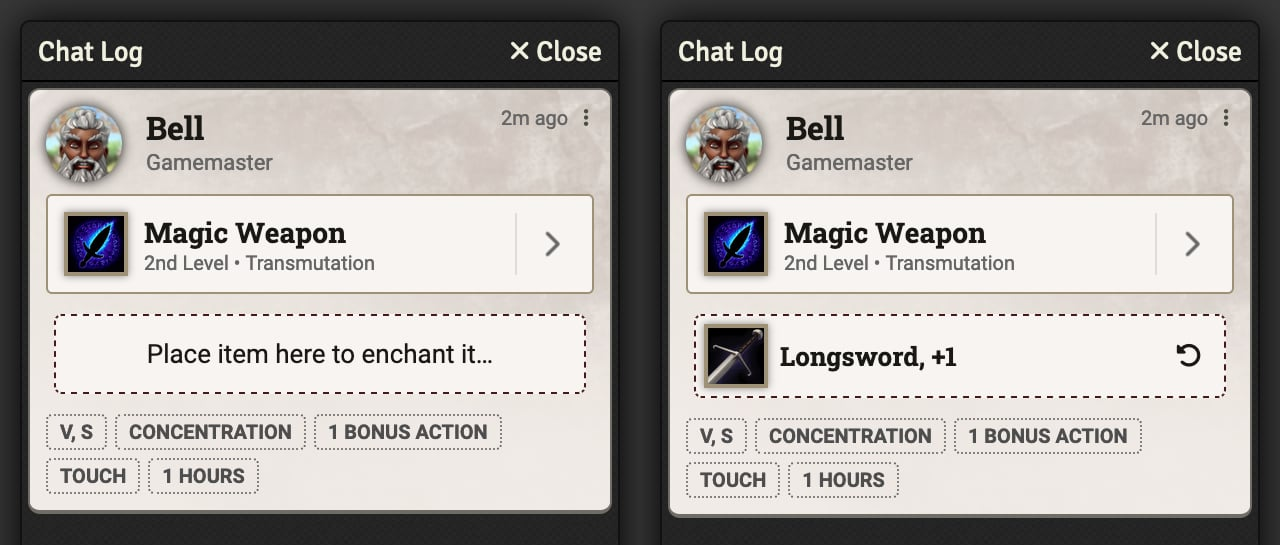
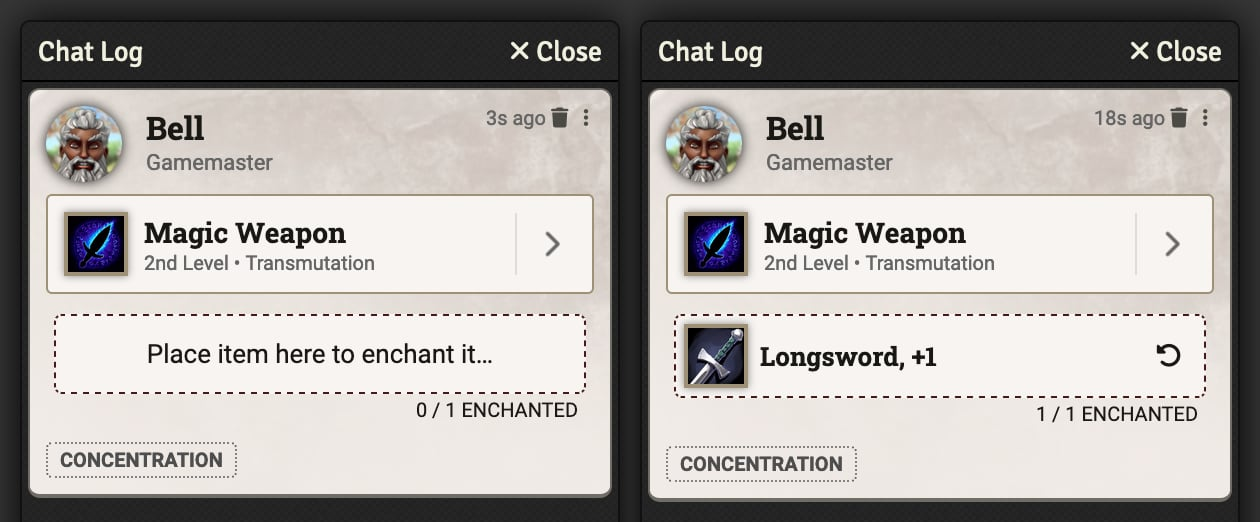
Document Enchant Activity for wiki

Changed region(s): [[0.0, 0.0613, 0.9905, 0.9808], [0.8976, 0.0613, 0.9905, 0.1226], [0.4024, 0.0613, 0.4952, 0.1226]]

diff --git a/wiki/Activity-Type-Summon.md b/wiki/Activity-Type-Summon.md
@@ -18,17 +18,34 @@ Then a few core Foundry permissions may need to be changed depending on how user
 - *Use File Browser*: If the token being summoned uses wildcard artwork, then players must have access to the file browser so the system can correctly set the artwork.
 
 
+## Performing Summoning
+
+To perform summoning, simply use the feature or spell as you would normally and the summoning options will appear in the usage prompt if available.
+
+![Summon Prompt](https://raw.githubusercontent.com/foundryvtt/dnd5e/publish-wiki/wiki/images/summoning/summoning-prompt.jpg)
+
+The *Place Summons* checkbox controls whether a summoned creature will be placed automatically and if there is more than one summoning profile the *Summons Profile* dropdown will allow player to select what type to summon. After this screen the character sheet will be minimized and they will be able to place the summon in the current scene.
+
+![Summon Prompt - Compendium Browser](https://raw.githubusercontent.com/foundryvtt/dnd5e/publish-wiki/wiki/images/summoning/summoning-cr-prompt.jpg)
+
+When summoning in *Challenge Rating & Type* mode, the compendium browser will be brought up after the profile is selected allowing the player to choose which specific creature they wish to summon.
+
+![Summon Chat Message](https://raw.githubusercontent.com/foundryvtt/dnd5e/publish-wiki/wiki/images/summoning/summoning-chat-message.jpg)
+
+If the summoned creature needs to be placed again, or the initial prompt was skipped, a "Summon" button will appear in the chat card.
+
+
 ## Configuring Summoning
 
 After creating the Summon activity on an item the sheet will open on the Identity tab. In addition to the standard activity identity options (see the [Activities Overview](Activities.md) for more details), Summon also includes a *Summon Prompt* option. If this is unchecked, then the usage dialog will not attempt to summon by default, but summoning can always be performed from the chat card after the initial usage.
 
-![Summoning Sheet - Identity Tab](https://raw.githubusercontent.com/foundryvtt/dnd5e/publish-wiki/wiki/images/summoning/summoning-identity.jpg)
+![Summon Sheet - Identity Tab](https://raw.githubusercontent.com/foundryvtt/dnd5e/publish-wiki/wiki/images/summoning/summoning-identity.jpg)
 
 ### Summoning Profiles
 
 Moving over to the Summoning tab reveals the core details of the Summon activity. The Profiles sub-tab contains the configuration for the creatures that will be summoned. It begins with "Mode", which determines whether a specific set of creatures can be summoned using the **"By Direct Link"** option, or whether the player can choose the creatures using the **"By Challenge Rating and Type"** option.
 
-![Summoning Sheet - Profiles Tab, Empty](https://raw.githubusercontent.com/foundryvtt/dnd5e/publish-wiki/wiki/images/summoning/summoning-profiles-empty.jpg)
+![Summon Sheet - Profiles Tab, Empty](https://raw.githubusercontent.com/foundryvtt/dnd5e/publish-wiki/wiki/images/summoning/summoning-profiles-empty.jpg)
 
 Each profile can have a *Count* for how many of that profile will be summoned. This count can take formulas based on the summoning item’s roll data, allowing the count to scale based on the level at which the summoning occurs.
 
@@ -38,7 +55,7 @@ Profiles also have a *Display Name* which affects how that profile will be displ
 
 In **Direct Link** mode it is easy to add creatures by dragging and dropping them from the world or a compendium only the sheet. Dropping it directly onto an existing profile will associated that creature with that profile and dropping elsewhere will create a new profile for that creature.
 
-![Summoning Sheet - Profiles Tab, Direct Link](https://raw.githubusercontent.com/foundryvtt/dnd5e/publish-wiki/wiki/images/summoning/summoning-profiles-direct-link.jpg)
+![Summon Sheet - Profiles Tab, Direct Link](https://raw.githubusercontent.com/foundryvtt/dnd5e/publish-wiki/wiki/images/summoning/summoning-profiles-direct-link.jpg)
 
 In the example above, the spell "Summon Beast" from *Tasha’s Cauldron of Everything*, there are three profiles created to match with the three variants of Bestial Spirit that can be created: Air, Land, and Water. Custom labels have been added to make the usage window more legible to players.
 
@@ -46,7 +63,7 @@ In the example above, the spell "Summon Beast" from *Tasha’s Cauldron of Every
 
 In **Challenge Rating & Type** mode the profile contains a *CR* field for setting the maximum CR of creature that can be summoned for that profile. Beneath the "Additional Settings" dropdown is the *Creature Types* field which allows for setting one or more creature types to allow for selection.
 
-![Summoning Sheet - Profiles Tab, Challenge Rating & Type](https://raw.githubusercontent.com/foundryvtt/dnd5e/publish-wiki/wiki/images/summoning/summoning-profiles-challenge-rating.jpg)
+![Summon Sheet - Profiles Tab, Challenge Rating & Type](https://raw.githubusercontent.com/foundryvtt/dnd5e/publish-wiki/wiki/images/summoning/summoning-profiles-challenge-rating.jpg)
 
 In the first example above, the spell "Conjure Animals" from the Player’s Handbook, there are four profiles with descending CRs and increasing quantities (the complex formula in the count field allows for the count to double at certain spell levels). The *Display Name* field is left blank allowing the summoning to automatically generate the appropriate label.
 
@@ -54,9 +71,9 @@ The second example shows the spell "Conjure Element", also from the Player’s H
 
 #### Summoning Level
 
-When summoning occurs the process always has an associated level. For spells, this is always based on the level at which the spell is cast, but for Summon activities on other items it varies depending on whether the *Class Identifier* is populated. If provided, then the summoning level will be based on the character’s level in that specific class, otherwise it will use the character’s overall level.
+When summoning occurs the process always has an associated level. For spells, this is based on the level at which the spell is cast, but for Summon activities on other items it varies depending on whether the *Class Identifier* is populated. If provided, then the summoning level will be based on the character’s level in that specific class, otherwise it will use the character’s overall level.
 
-![Summoning Sheet - Profiles Tab, Level Limits](https://raw.githubusercontent.com/foundryvtt/dnd5e/publish-wiki/wiki/images/summoning/summoning-profiles-level-limits.jpg)
+![Summon Sheet - Profiles Tab, Level Limits](https://raw.githubusercontent.com/foundryvtt/dnd5e/publish-wiki/wiki/images/summoning/summoning-profiles-level-limits.jpg)
 
 This summoning level can be used to restrict certain profiles to only certain levels using the *Level Limits* fields in the "Additional Settings" dropdown. In the above example, the "Create Undead" spell from the Player’s Handbook, the level limit is set for the various undead creatures allowing only Ghouls to be summoned at 6th level, but allowing Ghasts and Wights at 8th level and Mummies at 9th level.
 
@@ -64,7 +81,7 @@ This summoning level can be used to restrict certain profiles to only certain le
 
 The next tab defines changes to the creature and its items when summoned. Any fields that accept formulas will be resolved at time of summoning using `@` references from the item performing the summoning (allowing the use of `@item.level` or `@scaling` to adjust details based on the level cast) with details of the summoned creature available using `@summon` (so `@summon.attributes.hd` will give access to the HD size of a summoned NPC).
 
-![Summoning Sheet - Changes Tab](https://raw.githubusercontent.com/foundryvtt/dnd5e/publish-wiki/wiki/images/summoning/summoning-changes.jpg)
+![Summon Sheet - Changes Tab](https://raw.githubusercontent.com/foundryvtt/dnd5e/publish-wiki/wiki/images/summoning/summoning-changes.jpg)
 
 #### Creature Changes
 
@@ -85,19 +102,3 @@ the "Item Changes" section defines changes make to the items (features, attacks,
 - *Bonus Attack Damage*, *Bonus Save Damage*, *Bonus Healing*: Additional damage when using the Attack or Save activities or additional healing when using the Heal activity
 
 In the example above the *Match Attacks* checkbox is checked to ensure the attacks rolls match that of the caster, and the *Bonus Attack Damage* contains `@item.level` giving a bonus of the spell’s level to attack damage rolls. The other fields are left unchanged because the summoned creature doesn’t have any of those.
-
-## Performing Summoning
-
-Once configuration is complete, summoning is very easy. Simply use the feature or spell as you would normally and the summoning options will appear in the usage prompt.
-
-![Summoning Prompt](https://raw.githubusercontent.com/foundryvtt/dnd5e/publish-wiki/wiki/images/summoning/summoning-prompt.jpg)
-
-The *Place Summons* checkbox controls whether a summoned creature will be placed automatically and if there is more than one summoning profile the *Summons Profile* dropdown will allow player to select what type to summon. After this screen the player's sheet will be minimized and they will be able to place the summon in the current scene.
-
-![Summoning Prompt - Compendium Browser](https://raw.githubusercontent.com/foundryvtt/dnd5e/publish-wiki/wiki/images/summoning/summoning-cr-prompt.jpg)
-
-When summoning in *Challenge Rating & Type* mode, the compendium browser will be brought up after the profile is selected allowing the player to choose which specific creature they wish to summon.
-
-![Summoning Chat Message](https://raw.githubusercontent.com/foundryvtt/dnd5e/publish-wiki/wiki/images/summoning/summoning-chat-message.jpg)
-
-If the summoned creature needs to be placed again, or the initial prompt was skipped, a "Summon" button will appear in the chat card.

diff --git a/wiki/Enchantment.md b/wiki/Enchantment.md
@@ -1,46 +1,13 @@
-![Up to date as of 3.3.0](https://img.shields.io/static/v1?label=dnd5e&message=3.3.0&color=informational)
+![Up to date as of 4.0.0](https://img.shields.io/static/v1?label=dnd5e&message=4.0.0&color=informational)
 
-The D&D system includes an item activation method that allows for adding enchantments to items. These enchantments can modify the stats of an item (such as *Magic Weapon* giving a mundane weapon a +1 magical bonus), carry effects that apply to an actor (such as the *Fire Rune* granting a player double proficiency on tool checks), and carry items that are added to the actor (such as the *Arcane Propulsive Armor* give the player a set of gauntlets that can be used to attack).
-
-![Enchantment Summary](https://raw.githubusercontent.com/foundryvtt/dnd5e/publish-wiki/wiki/images/enchantment/enchantment-summary.jpg)
-
-## Configuring Enchantment
-
-To set up a feature or spell to perform enchantment, it first must have the "Action Type" of "Enchant". This is configured on the details tab of the item beneath the header "Spell Effects" or "Feature Attack", depending on item type. Once that is selected a new enchantment line will appear below. The "Configure Enchantment" button will allow for further configuration and the area below will display any other items that have been enchanted by this one.
-
-![Item Details Tab](https://raw.githubusercontent.com/foundryvtt/dnd5e/publish-wiki/wiki/images/enchantment/enchantment-item-details.jpg)
-
-Clicking the "Configure Enchantment" button will open the enchantment configuration screen. This screen contains all of the controls needed to configure what enchantments can be applied and what items can be enchanted.
-
-![Enchantment Configuration](https://raw.githubusercontent.com/foundryvtt/dnd5e/publish-wiki/wiki/images/enchantment/enchantment-configuration.jpg)
-
-### Enchantments
-
-The top section contains a list of Enchantments that can be applied by this item. The "Create Enchantment" button can be used to create one which will open up the setup window for that specific enchantment. These enchantments are special active effects that target the item to which they are added rather than the actor, and thus they are configured in much the same way as normal active effects.
+Enchantments are a special type of Active Effect that makes changes on the item to which they are added, rather than the actor like normal Active Effects. They are configured in much the same way as normal Active Effects, but rely on different attribute keys that are documented below.
 
 ![Enchantment Effect Changes](https://raw.githubusercontent.com/foundryvtt/dnd5e/publish-wiki/wiki/images/enchantment/enchantment-changes.jpg)
 
 In the example above, the spell "Magic Weapon" is configured to modify the name of the item to add `+1` to the end, add the magical property, and set the magical bonus. The name is set using a change format that allows for referencing the original name using a pair of curly brackets (`{}`) and the `override` change mode. This allows for more complex changes to the item's name than would normally be possible with active effects.
 
-Within the "Additional Settings" dropdown for each enchantment there are more controls for each individual enchantment. The Level Limit defines what levels an enchantment can be used. Since "Magic Weapon" shown above is a spell, these levels correspond to the level at which the spell is cast. If this were on a feature, then these numbers would reference either the character level or a class level if the "Class Identifier" field is filled in (not visible in the above screenshots).
 
-The other two options define what effects and items are added whenever the enchantment is added. The effects must be normal active effects defined on the same item as the enchantment. The items can be any item, but it is generally good practice to create links only to items in compendiums.
-
-**Note:** The "Additional Items" can only be configured when running Foundry V12 or later, on V11 the items will be read-only.
-
-### Restrictions
-
-The next section defines what types of items can be enchanted. Checking "Allow Magical" will allow the enchantment to be applied to items that are already magical, and the "Item Type" will restrict the enchantment to certain broad item categories (e.g. Equipment, Weapon).
-
-## Performing Enchantment
-
-Once configuration is complete, enchantment is very easy. Simply activate the feature or spell as you would normally and the enchantment options will appear in the usage prompt if these is more than one enchantment profile available, otherwise the enchantment will go straight to chat.
-
-![Enchantment Chat Message](https://raw.githubusercontent.com/foundryvtt/dnd5e/publish-wiki/wiki/images/enchantment/enchantment-chat-message.jpg)
-
-In the activation chat message a drop area will appear. Any player may drop an item in this area to enchant that item and the enchanted items will be listed. GMs or the player who owns the item will have access to the "Remove Enchantment" button in the chat card which will quickly remove the enchantment. Enchantments can also be removed by breaking concentration if they are from a concentration effect, or by enter the "Effects" tab on the item and manually deleting the enchantment.
-
-## Enchantment Active Effects
+## Enchantment Changes
 
 This describes how to create Active Effects used as Enchantments. This differs from the [Active Effect Guide](Active-Effect-Guide) in that these are changes to items instead of the actors. If you're creating an Active Effect to add to the Additional Effects section when configuring an Enchantment, then use that guide.
 

diff --git a/wiki/Activity-Type-Enchant.md b/wiki/Activity-Type-Enchant.md
@@ -1,0 +1,53 @@
+![Up to date as of 4.0.0](https://img.shields.io/static/v1?label=dnd5e&message=4.0.0&color=informational)
+
+The Enchant activity allows for applying [enchantments](Enchantment.md) to items. These enchantments can modify the stats of an item (such as *Magic Weapon* giving a mundane weapon a +1 magical bonus), carry effects that apply to an actor (such as the *Fire Rune* granting a player double proficiency on tool checks), and carry items that are added to the actor (such as the *Arcane Propulsive Armor* give the player a set of gauntlets that can be used to attack).
+
+![Enchantment Summary](https://raw.githubusercontent.com/foundryvtt/dnd5e/publish-wiki/wiki/images/enchantment/enchantment-summary.jpg)
+
+
+## Performing Enchanting
+
+When the Enchant activity is used it will display the usage prompt allowing for selecting a specific enchanting profile if more than one is available. The Enchant chat card will then appear in the log with an area to drop the item that should be enchanted.
+
+![Enchantment Chat Message](https://raw.githubusercontent.com/foundryvtt/dnd5e/publish-wiki/wiki/images/enchantment/enchantment-chat-message.jpg)
+
+Any player may drop an item in this area to enchant that item and the enchanted items will be listed. GMs or the player who owns the item will have access to the "Remove Enchantment" button in the chat card which will quickly remove the enchantment. Enchantments can also be removed by breaking concentration if they are from a concentration effect, or by enter the "Effects" tab on the item and manually deleting the enchantment.
+
+The chat card tracks how many items have been enchanted out of the maximum allowed (though the maximum is not enforced). This maximum item count can be defined on the Enchant activity by specifying the targets in the "Targeting" tab.
+
+
+## Configuring Enchanting
+
+After creating the Enchant activity on an item the sheet will open. In addition to the standard activity options (see the [Activities Overview](Activities.md) for more details), Enchant also includes the "Enchanting" tab with details on enchantments and restrictions.
+
+### Enchantments
+
+The "Enchantments" tab contains a list of potential enchantments that can be applied by the activity. The plus button can be used to create new enchantments, or the dropdown can be used to select enchantments that are already on the item, but not yet on the Enchant activity. Clicking on the name of an enchantment will open up the configuration sheet for it. More details on configuring the enchantments themselves can be found in the [enchantment guide](Enchantment.md).
+
+#### Enchantment Level
+
+When enchantment occurs the process always has an associated level. For spells, this is based on the level at which the spell is cast. For other items this varies depending on whether the *Class Identifier* is populated. If provided, then the summoning level will be based on the character’s level in that specific class, otherwise it will use the character’s overall level.
+
+![Enchant Sheet - Enchantments Tab, Multiple with Level Limits](https://raw.githubusercontent.com/foundryvtt/dnd5e/publish-wiki/wiki/images/enchantment/enchant-enchantments-multiple.jpg)
+
+This enchantment level can be used to restrict certain profiles to pnly certain levels using the *Level Limits* fields in the "Additional Settings" dropdown. In the above example, the "Magic Weapon" spell from the *Player’s Handbook*, the level limit is set so the "Magic Weapon, +1" enchantment is applied if the spell is cast at 3rd level or lower, and the other two enchantments are available at higher casting levels.
+
+#### Additional Effects & Items
+
+When enchanting profiles can be given additional effects and items that are added alongside the enchantment. Because enchantments can only affect the item to which they are applied, these *Additional Effects* can be used to give the item and Active Effect that changes the actor. The *Additional Items* can be used to specify additional items that are given to the actor when this enchantment is applied. Both the effects and items will be removed from the actor when the enchantment is removed.
+
+![Enchant Sheet - Enchantments Tab, Additional Effects & Items](https://raw.githubusercontent.com/foundryvtt/dnd5e/publish-wiki/wiki/images/enchantment/enchant-enchantments-riders.jpg)
+
+In the above example, the "Arcane Propulsive Armor" infusion from *Tasha’s Cauldron of Everything*, the profile includes a "Arcane Propulsive Armor" active effect to grant the player a boost to their walking speed and an "Arcane Propulsion Gauntlets" item that gives the player a way to attack using the armor.
+
+### Restrictions
+
+The "Restrictions" tab contains settings for what kind of items the enchanting can be performed upon:
+- *Allow Magical*: Normally enchantments cannot be applied to items that are already magical, but this allows applying them to any item
+- *Item Type*: Restrict application to certain types of items (e.g. "Weapon", "Equipment")
+- *Valid Categories*: Further restrict the type of item to only those in this list (e.g. "Simple Melee Weapon")
+- *Valid Properties*: Items must contain all of the provided properties to be enchanted (e.g. "Light", "Thrown")
+
+![Enchant Sheet - Restrictions Tab](https://raw.githubusercontent.com/foundryvtt/dnd5e/publish-wiki/wiki/images/enchantment/enchant-restrictions.jpg)
+
+In the above example, still "Arcane Propulsive Armor", the restrictions indicate that this can only be applied to non-magical equipment that is light, medium, or heavy armor.
